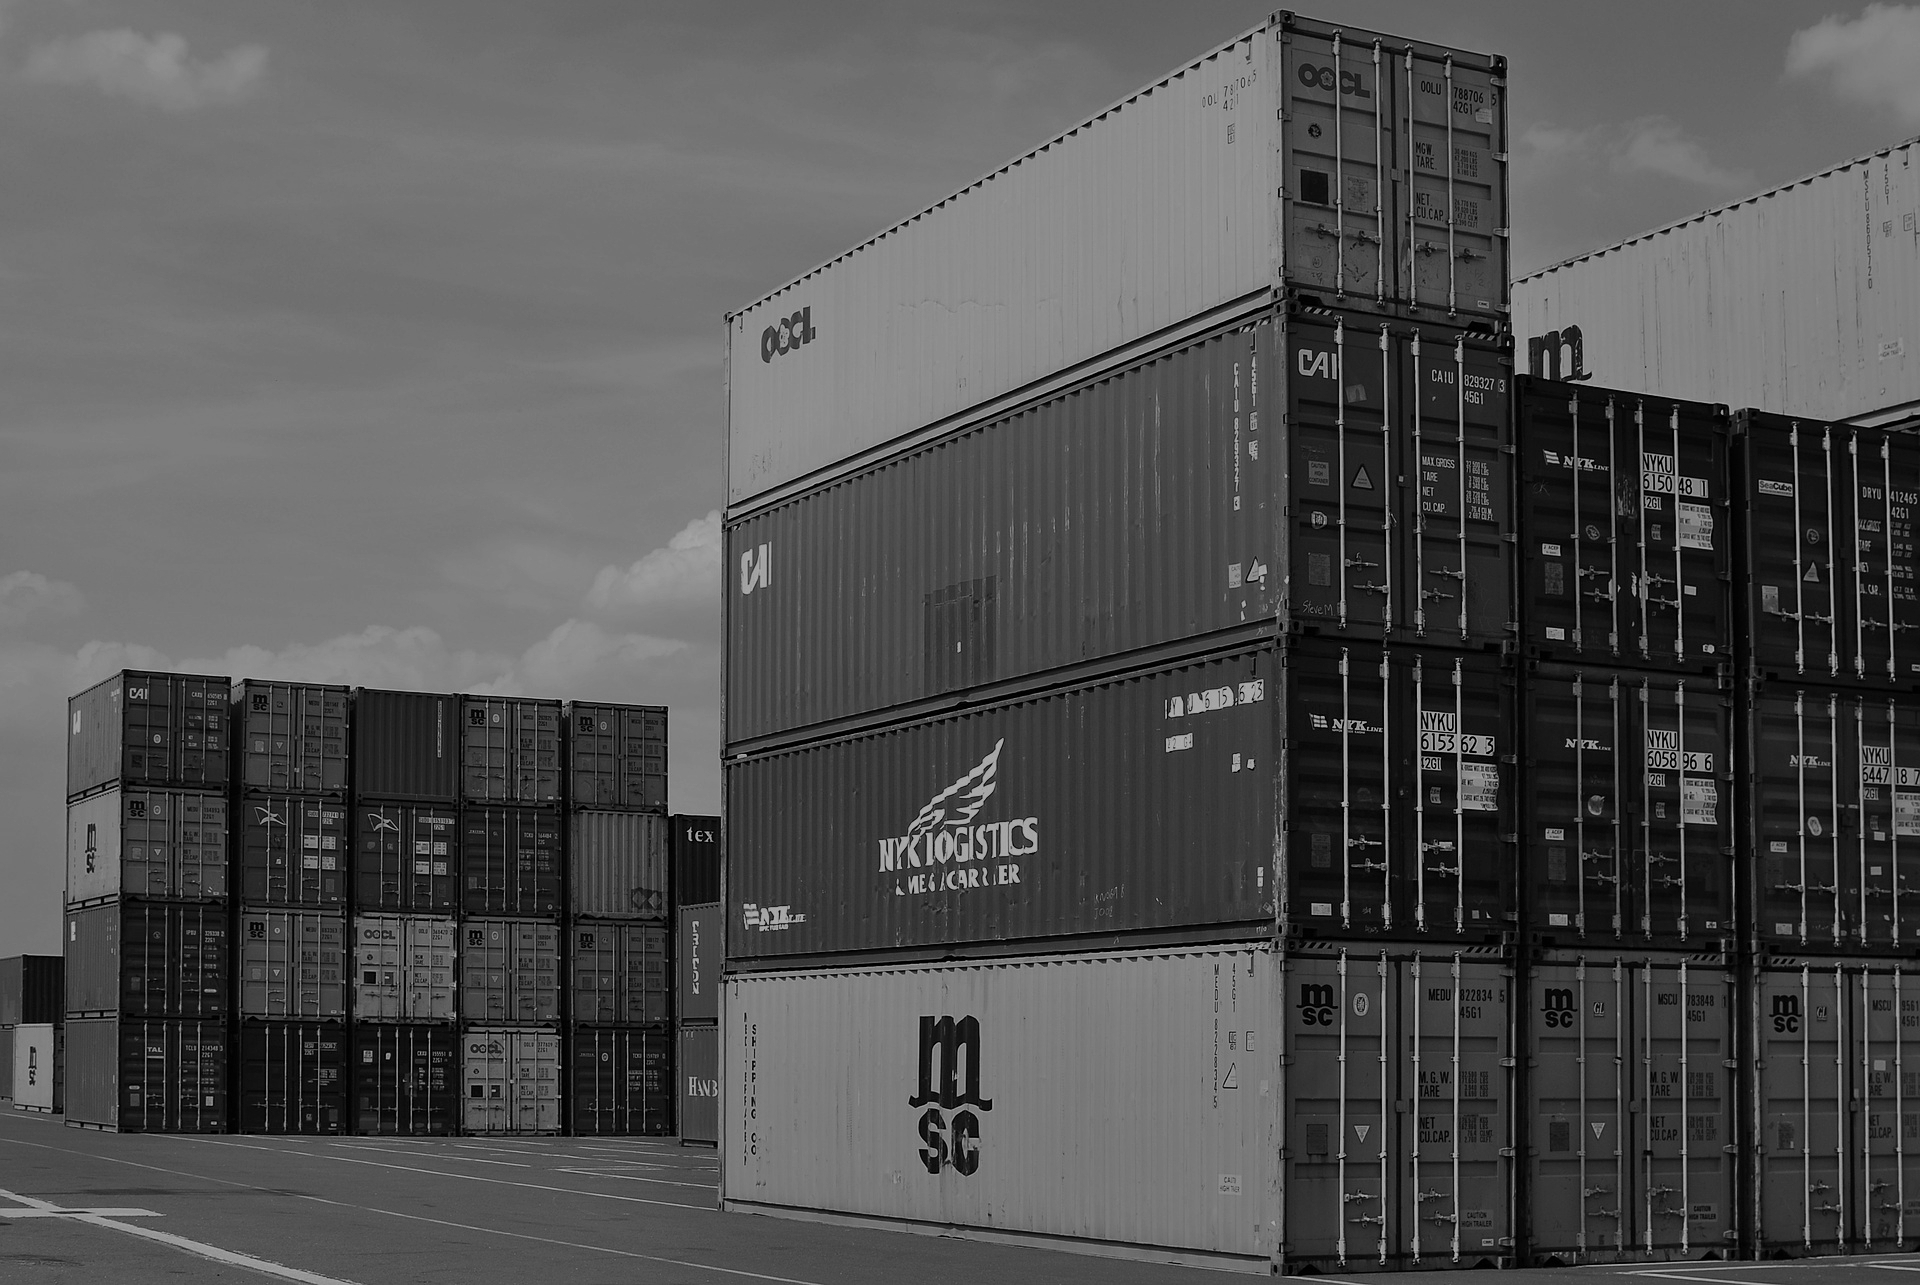
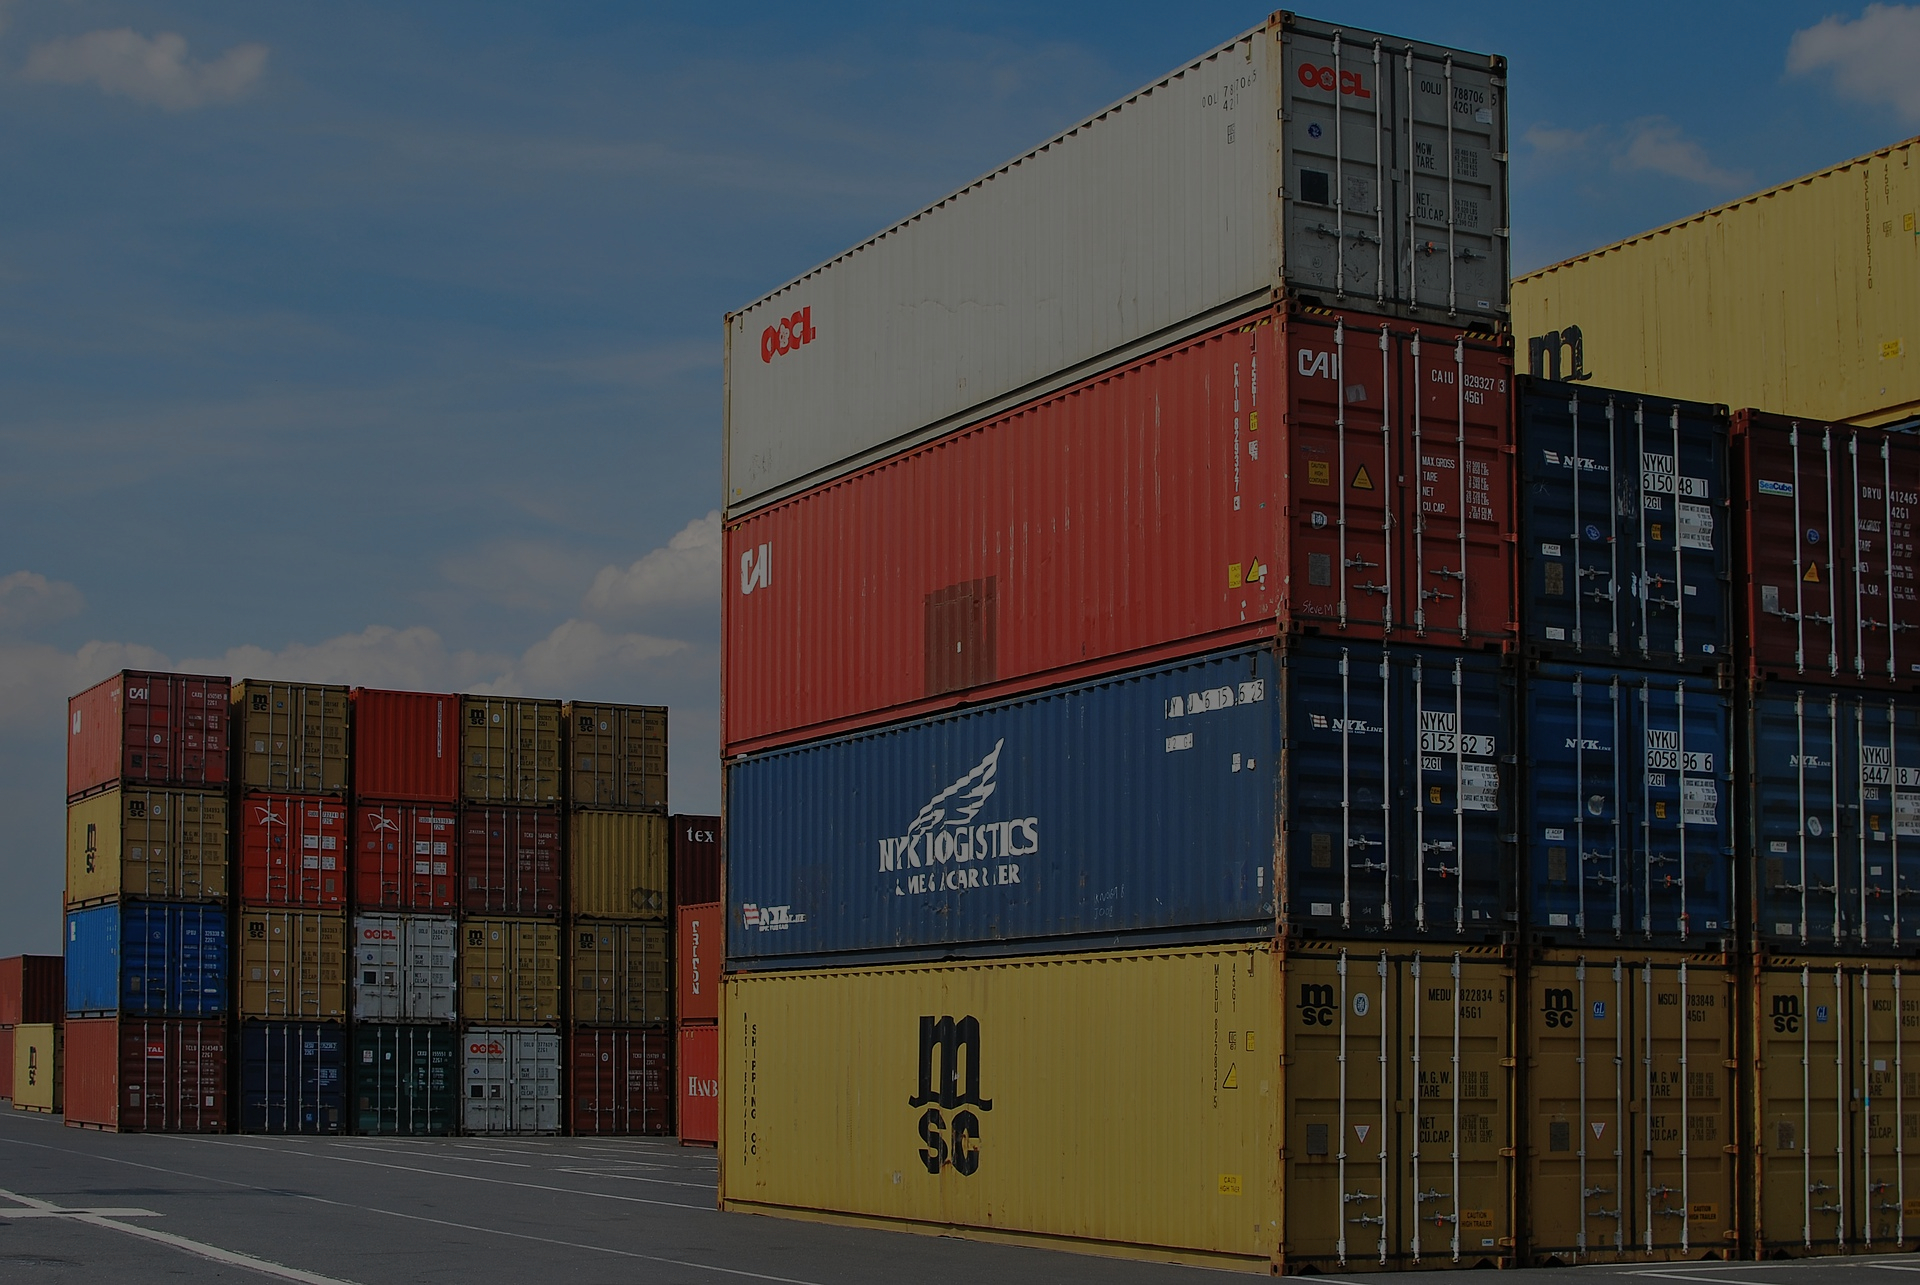
Change backgroud photo

diff --git a/_includes/services.html b/_includes/services.html
@@ -21,7 +21,7 @@
                         <i class="fa fa-circle fa-stack-2x text-primary"></i>
                         <i class="fa fa-retweet fa-stack-1x fa-inverse"></i>
                     </span>
-                    <h4 class="service-heading">Shipment/Cargo services</h4>
+                    <h4 class="service-heading">Freight/Cargo services</h4>
                     <!-- <p class="text-muted">Lorem ipsum dolor sit amet, consectetur adipisicing elit. Minima maxime quam architecto quo inventore harum ex magni, dicta impedit.</p> -->
                 </div>
                 <div class="col-md-4">
